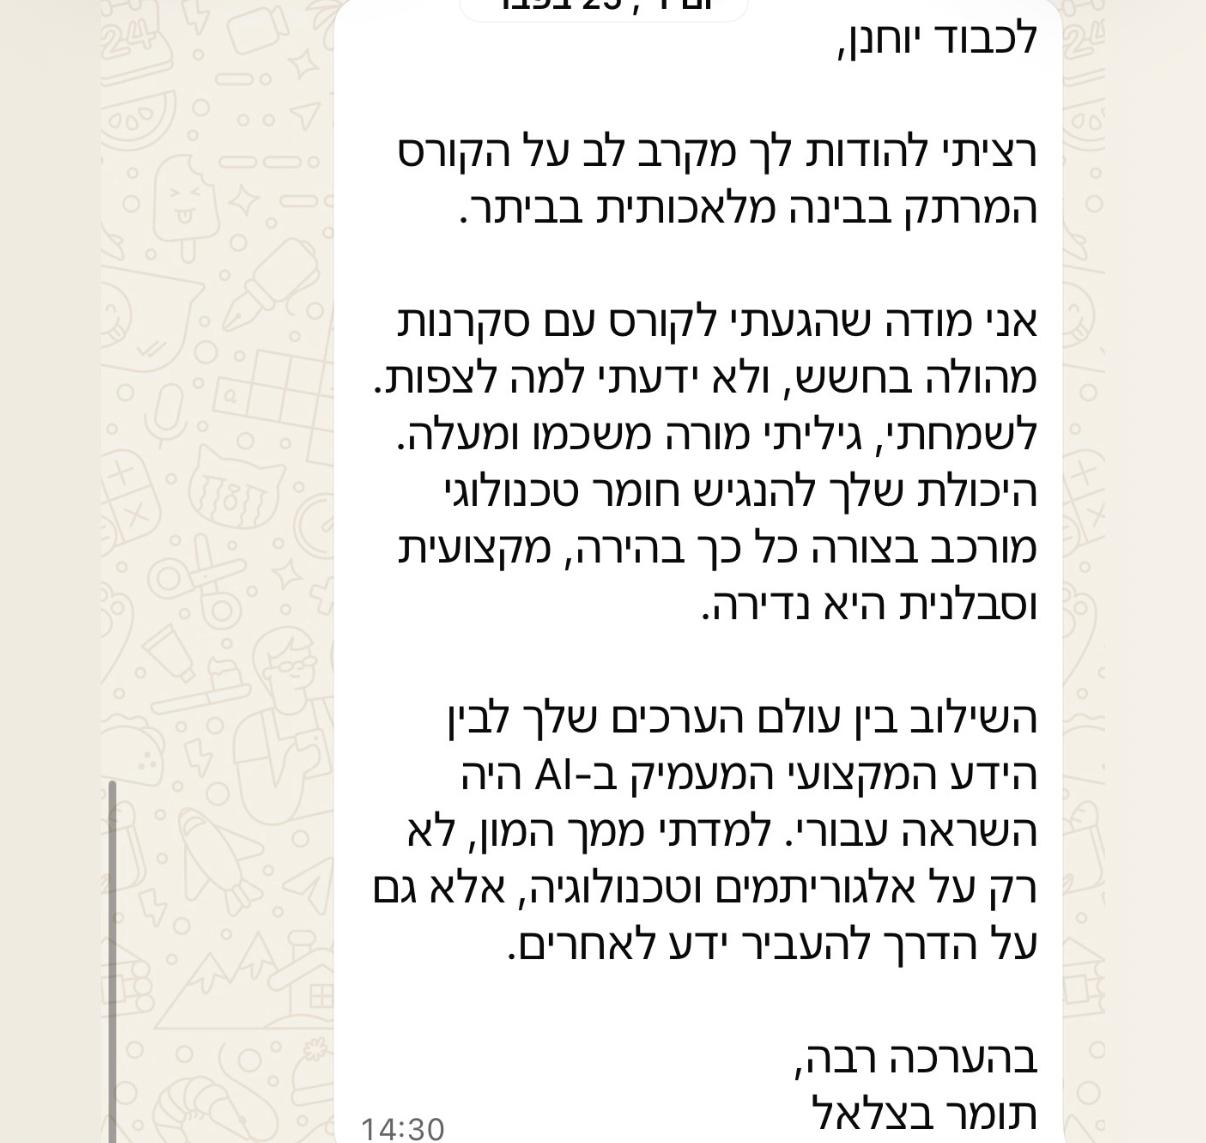
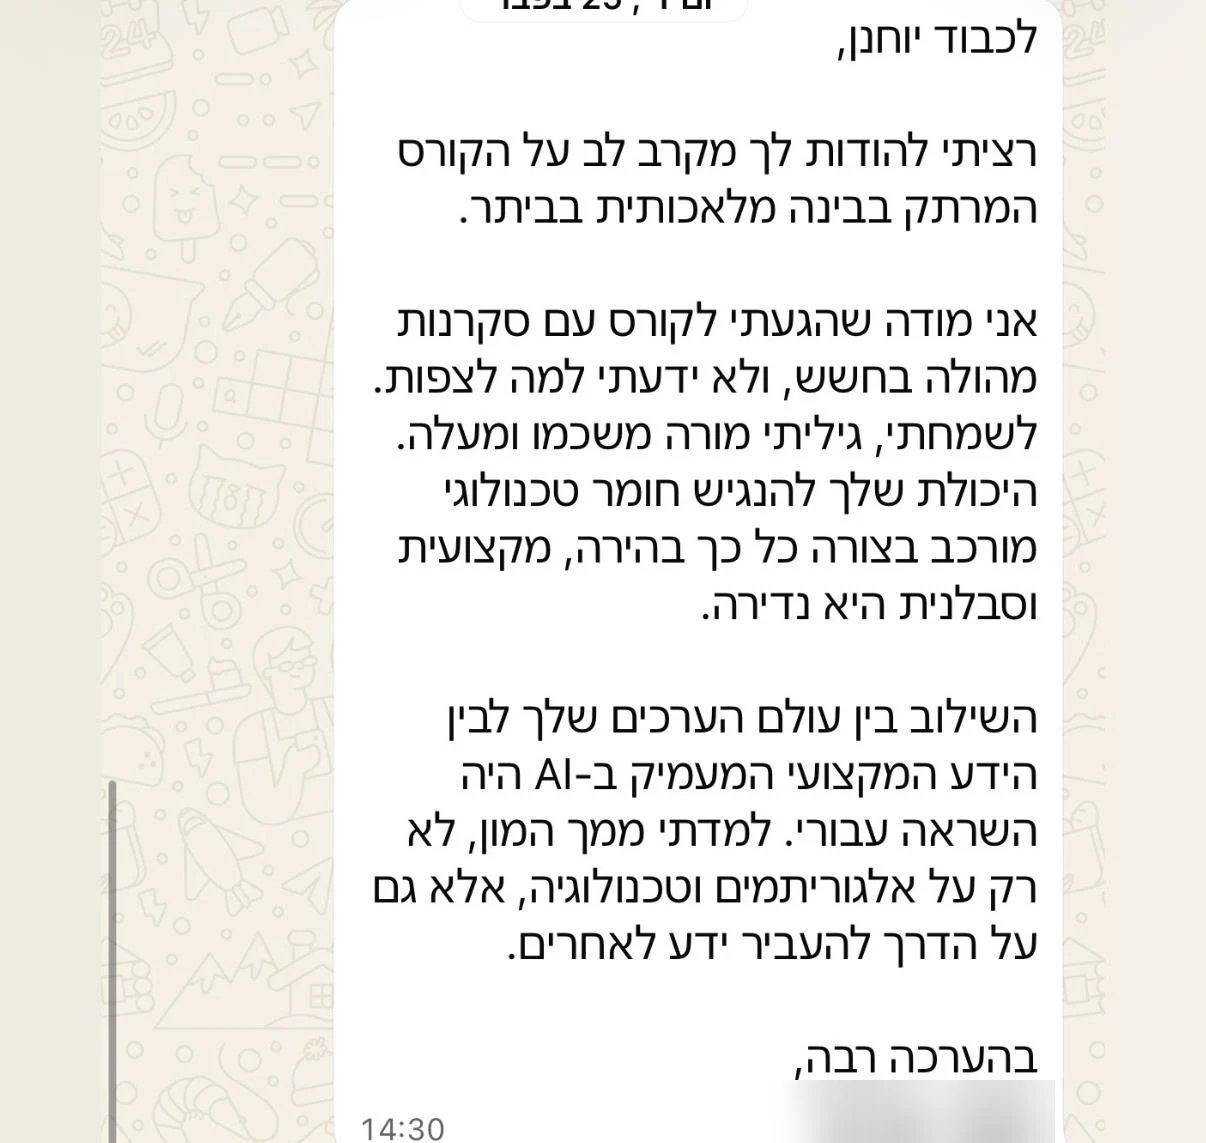
Blur a signed name in a testimonial screenshot; fix a 404 image link
- whatsapp-01-blurred.webp: the message was signed with a full name that
  was still sharp, and the alt text on course-beginners.html repeated
  it. The signature line is blurred and the alt no longer names anyone
- course.html: the structured-data image pointed at /yochanan.jpg, which
  .vercelignore keeps out of the deploy. It now points at the portrait
  that is actually served

Claude-Session: https://claude.ai/code/session_01TdvdKvQCG9Z6oaeXPrZKeQ

Changed region(s): [[0.675, 0.9186, 0.8897, 1.0]]

diff --git a/course-beginners.html b/course-beginners.html
@@ -206,7 +206,7 @@
         <img src="assets/public/assets/whatsapp-proofs/whatsapp-05-blurred.webp" alt="בוגר הקורס: הקמתי עם GPT אתרים שהורידו ממני חצי מהעבודה, הכל עם הכללים שלמדנו" loading="lazy"/>
       </a>
       <a class="shot" href="assets/public/assets/whatsapp-proofs/whatsapp-01-blurred.webp" target="_blank" rel="noopener">
-        <img src="assets/public/assets/whatsapp-proofs/whatsapp-01-blurred.webp" alt="תומר בצלאל, בוגר הקורס החי: מורה שיודע להנגיש טכנולוגיה מורכבת בבהירות ובסבלנות" loading="lazy"/>
+        <img src="assets/public/assets/whatsapp-proofs/whatsapp-01-blurred.webp" alt="בוגר הקורס החי: מורה שיודע להנגיש טכנולוגיה מורכבת בבהירות ובסבלנות" loading="lazy"/>
       </a>
       <a class="shot" href="assets/public/assets/whatsapp-proofs/whatsapp-02-blurred.webp" target="_blank" rel="noopener">
         <img src="assets/public/assets/whatsapp-proofs/whatsapp-02-blurred.webp" alt="משתתף בקורס החי: גם עם ניסיון קודם ב-AI יצא עם ידע חדש ומעמיק" loading="lazy"/>

diff --git a/course.html b/course.html
@@ -51,7 +51,7 @@
       "description":"385 ₪ כולל מע״מ 18% (326.27 ₪ לפני מע״מ)."
     }
   },
-  "image": "https://ai.shwadron-ai.com/yochanan.jpg"
+  "image": "https://ai.shwadron-ai.com/assets/public/yochanan-card.jpg"
 }
 </script>
 </head>
